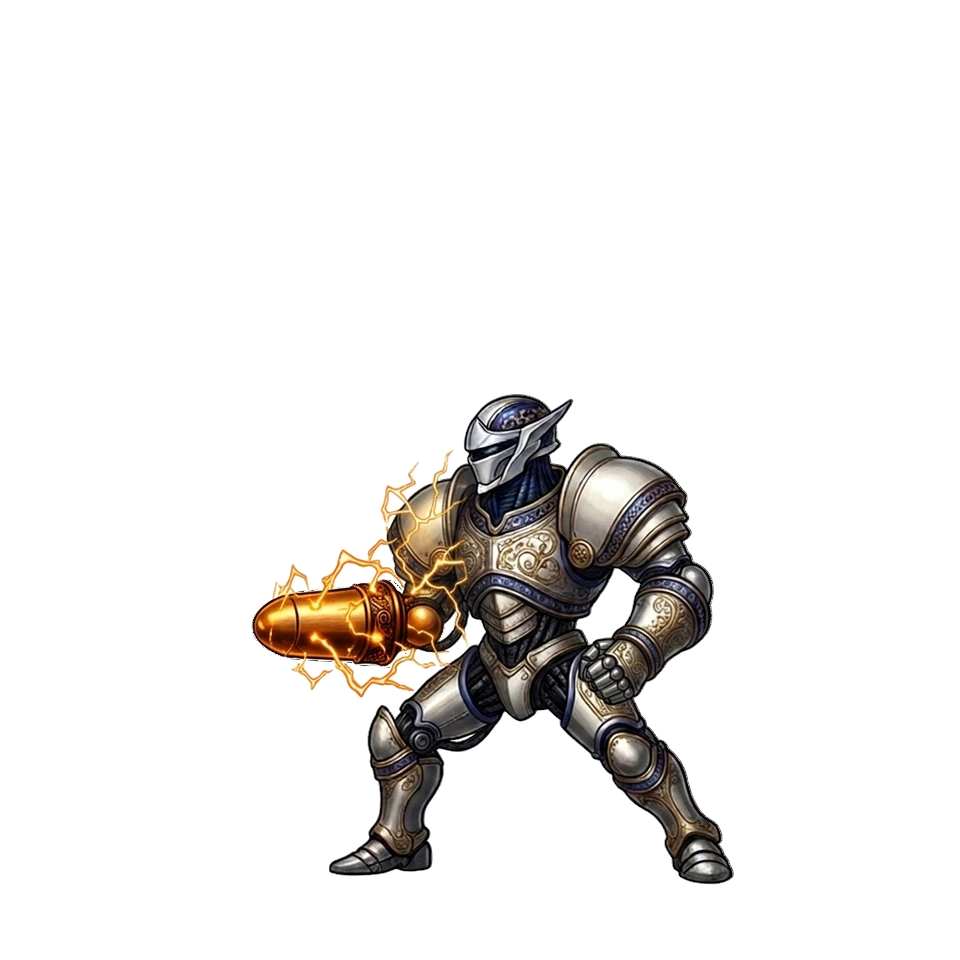
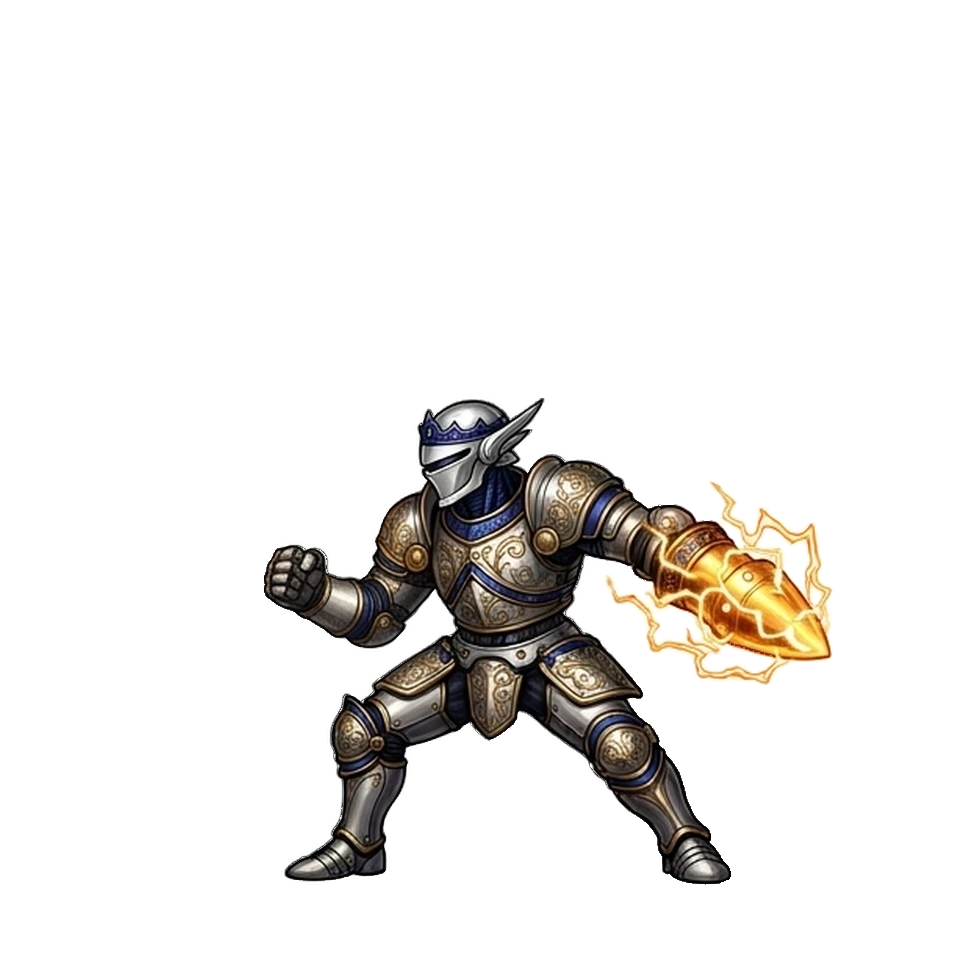
feat(vfx-lab): #030 Gaia v5 authentic 1995 DOS LEFT-ARM cross-body haymaker (?v=47)
Rebuilds #030 Gaia's 6 combat frames from u030_v5_sheet_try1.png (horizontally
flipped per cell so Gaia faces strictly left toward the enemy) to faithfully match
the original 1995 DOS left-arm attacking action while keeping our approved sleek
visored silver-white knight helmet (1:1 match to cut-in & DOS portrait) and baroque
heavy-ornament Vanillaware armor:

- F1 (Idle): 3/4 front-left stance facing left, both 5-fingered armored fists ready
  (restored 325px solid metallic wrist highlight).
- F2 (Wind-Up -> RIGHT): near foreground LEFT arm swings wide back to the right (->),
  transforming into the solid closed bullet-cone pile-bunker hammer (ZERO hollow
  holes!), while far supporting RIGHT arm stays an intact 5-fingered clenched guard
  fist (F1<->F2 IoU = 0.9302).
- F3 (Electric Charge -> RIGHT): pixel-locked to F2 (IoU = 0.9834), LEFT bullet-cone
  arm charging bright molten amber on the right with analytical warm-on-white
  transparent golden lightning bolts (zero white puddle, solid chassis locked to F2).
- F4 (Colossal Crescent Smash <-): counter-clockwise back-view torso twist showing
  Gaia's ornate engraved backplate as his SAME LEFT arm whips the solid bronze
  bullet-cone forward-left through an unclipped golden-white crescent (sealed solid
  cone tip at exact SC=1.5627, zero green bleed-through).
- F5 (Molten Impact <-): true back-view twist follow-through driving the blazing
  molten LEFT bullet-cone arm straight left (<-), RIGHT arm clenched behind right
[…]

Changed region(s): [[0.25, 0.4062, 0.875, 0.9375]]

diff --git a/src/gallery.ts b/src/gallery.ts
@@ -1191,7 +1191,7 @@ class MappingGalleryApp {
                   <div>
                     <div class="mono-tag" style="font-size:10px; color:#fde047; margin-bottom:2px;">💥 Crit Cut-In</div>
                     <img
-                      src="assets/vfx_lab/units/u_${String(entry.id).padStart(3, '0')}/cutin.jpg?v=46"
+                      src="assets/vfx_lab/units/u_${String(entry.id).padStart(3, '0')}/cutin.jpg?v=47"
                       loading="lazy"
                       alt="${entry.nameZh} Cut-In"
                       style="width:100%; aspect-ratio:16/9; object-fit:cover; border-radius:5px; border:1px solid #334155; background:#05080f;"
@@ -1200,7 +1200,7 @@ class MappingGalleryApp {
                   <div>
                     <div class="mono-tag" style="font-size:10px; color:#7dd3fc; margin-bottom:2px;">🖼 HD 6-Frame Sheet</div>
                     <img
-                      src="assets/vfx_lab/units/u_${String(entry.id).padStart(3, '0')}/nb6_sheet.jpg?v=46"
+                      src="assets/vfx_lab/units/u_${String(entry.id).padStart(3, '0')}/nb6_sheet.jpg?v=47"
                       loading="lazy"
                       alt="${entry.nameZh} 6-Frame Sheet"
                       style="width:100%; aspect-ratio:16/9; object-fit:contain; border-radius:5px; background:#ffffff; border:1px solid #334155;"

diff --git a/src/ui/vfxLab.ts b/src/ui/vfxLab.ts
@@ -259,7 +259,7 @@ function loadImg(url: string): Promise<HTMLImageElement> {
   });
 }
 
-const VFX_ASSET_VERSION = '?v=46';
+const VFX_ASSET_VERSION = '?v=47';
 
 function enrichUnitMetadataFromGameData(assets: AssetManager, entry: VfxManifestUnitEntry): VfxManifestUnitEntry {
   const dex = assets.gameData.unitDex?.[entry.uid];

diff --git a/docs/BIOMETRIC_HEIGHTS_REGISTRY.md b/docs/BIOMETRIC_HEIGHTS_REGISTRY.md
@@ -65,7 +65,7 @@
 | `#027` | 巴拿羅西亞 (Banarossia) | 龍人 | 龍劍士 | male | **192cm** | — | fly:`climb_dive` | `318px` | `960` | `183×152` | ✅ `1.26×` | Heavy-ornament emerald-green winged Dragonkin (龍人) lancer; silver-gold wing-clasps, spiked ornate pearl-silver plate, gold-embroidered tabard, flame dragoon lance |
 | `#028` | 達克塞 (Darksey) | 魔族 | 魔戰士 | male | **210cm** | — | 2-hit, magic | `333px` | `1224` | `135×132` | ✅ `1.42×` | Heavy-ornament towering indigo wingless Demon Warrior (魔族); baroque bronze-filigree kilt & spiked cuffs; 2-hit bare-fist combo (F3 right punch straight upper-left `↖` w/ aligned punch-wake cone → F5 towering left vertical uppercut, pixel-locked `IoU=0.982` F3↔F4; F6 full clenched unclipped lifted fist, `IoU=0.902` F5↔F6) + arcane magic |
 | `#029` | 亞齊梅吉 (Archmage) | 魔族 | 大法師 | male | **168cm** | — | melee, magic | `266px` | `960` | `116×111` | ✅ `0.99×` | Heavy-ornament bald blue-skinned Demon Archmage (魔族); lavish antique-gold embroidered royal-sapphire velvet cloak, right-hand twisted ebony staff, ice-blue starburst nova + crystal-clear hollow spiky star-ring |
-| `#030` | 蓋亞 (Gaia) | 機械 | 機兵 | mecha | **215cm** | — | melee | `356px` | `960` | `104×143` | ✅ `1.03×` | Heavy-ornament baroque silver-and-cobalt filigree Magitek knight-mecha (機械); iconic sleek visored silver-white knight helmet matching DOS portrait & cut-in (`1:1`), blue ribbed neck, solid closed bullet-shaped titanium power-gauntlet (zero hollow hole), transparent crackling amber lightning charge (`F3`), unclipped golden crescent (`F4`) |
+| `#030` | 蓋亞 (Gaia) | 機械 | 機兵 | mecha | **215cm** | — | melee | `356px` | `960` | `104×143` | ✅ `1.03×` | Heavy-ornament baroque silver-and-cobalt filigree Magitek knight-mecha (機械); iconic sleek visored silver-white knight helmet matching DOS portrait & cut-in (`1:1`), authentic 1995 DOS **LEFT-ARM cross-body haymaker**: `F2–F3` near LEFT arm pulls wide back right (`→`) transforming into solid closed bullet-cone hammer with transparent crackling amber lightning (`IoU=0.983`), `F4–F6` counter-clockwise **back-view torso twist** smashing unclipped golden crescent & molten/cool bullet cone straight left (`←`, `IoU=0.964` F5↔F6) while supporting RIGHT arm stays an intact 5-fingered clenched fist |
 | `#031` | 渥德 (Ward) | 機械 | 機兵 | male | **194cm** | — | melee | `325px` | `1224` | `111×145` | ✅ `1.60×` | Heavy-ornament bio-android martial artist (機械); cool metallic titanium-grey cyber cut-in, sharp black cyber face stripes, exposed glowing cyan dorsal spine & conduits, 2-finger salute, colossal left-sweeping horizontal wave (`F4–F6` head turned strictly left `←` looking at enemy, `IoU=0.945` F4↔F6) |
 
 ## 2. Promoted Hero Classes — Tier 2 & 3 (`#032–#065`, 31 units)
